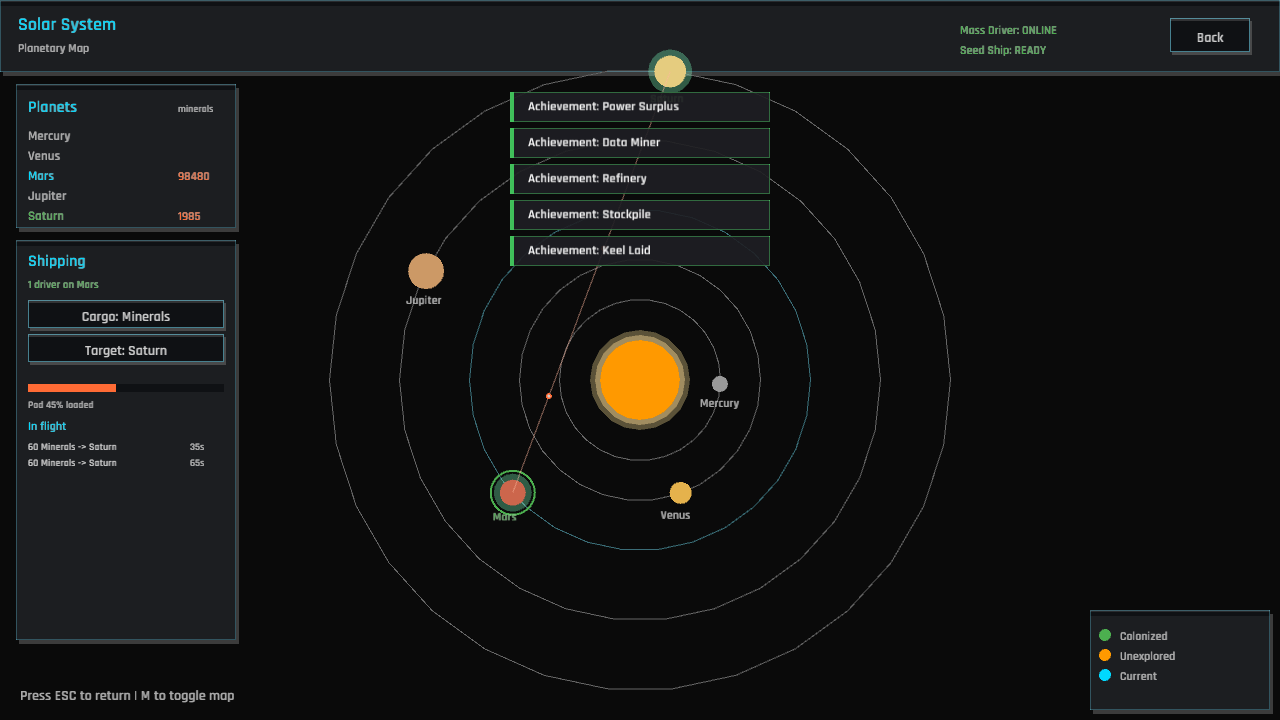
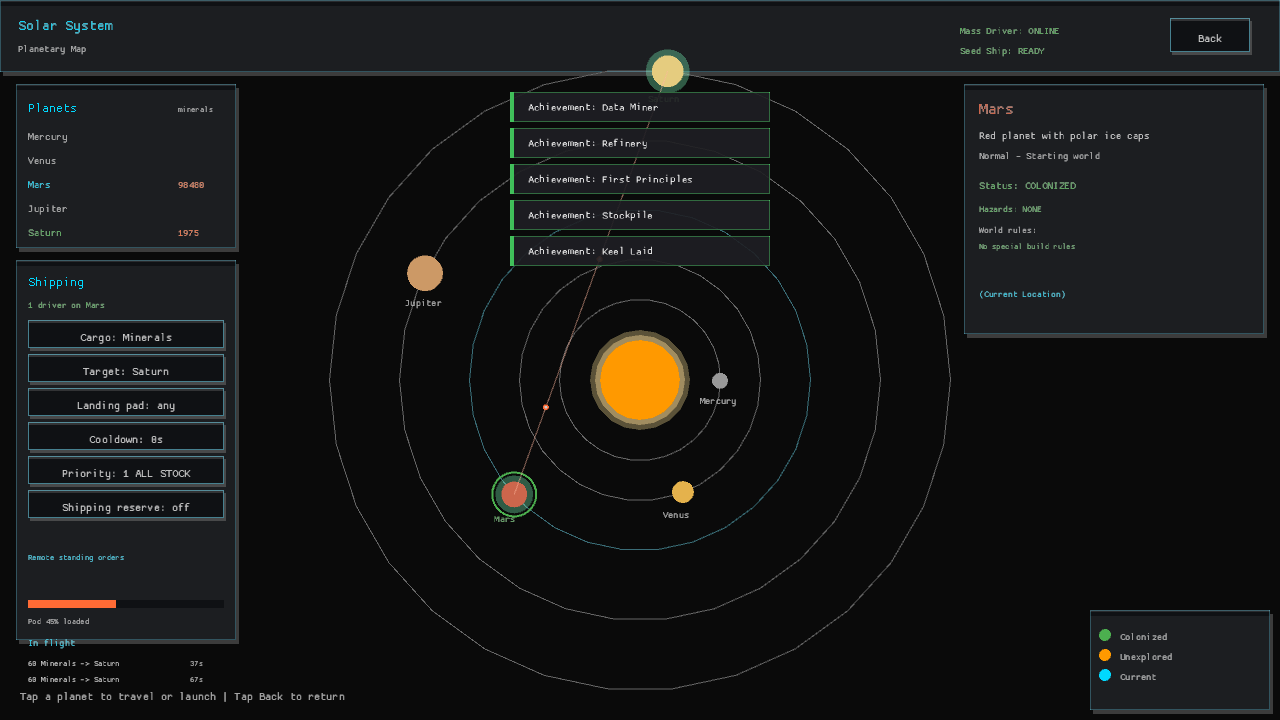
The solar map names the worlds before the swarm reaches them (world dossier and touch travel, GDD 4)
The interplanetary map exposed only names and colonization state, leaving hazards and launch constraints hidden until the player discovered them on the destination world. Add a persistent current-world dossier with declared hazards and friendly constraint names, and make each planet row a visible touch-safe selection target for travel or launch. Refresh the interplanetary verification capture to cover the expanded panel and adjusted list spacing.

diff --git a/src/screens/interplanetary_view.rs b/src/screens/interplanetary_view.rs
@@ -5,7 +5,7 @@ mod shipping_panel;
 use crate::state::{ExportOrder, Shipment};
 use crate::ui::{color_from_rgba, draw_button_sized, draw_panel, Colors, Dimensions};
 use macroquad::prelude::*;
-use macroquad_toolkit::ui::{draw_ui_text, Pointer};
+use macroquad_toolkit::ui::{draw_ui_text, note_neighbour, touch_area, Pointer};
 
 /// Actions from the interplanetary view
 #[derive(Debug, Clone, Copy, PartialEq)]
@@ -98,14 +98,24 @@ pub fn render_interplanetary_view(view: &MapView) -> InterplanetaryAction {
     draw_circle(center_x, center_y, 40.0, Colors::WARNING);
 
     let planets = &view.data.planets;
-    let mut hovered_planet: Option<usize> = None;
+    // Keep a dossier visible when the map opens. This gives touch players a
+    // useful first target and means the planet list can be used for travel
+    // without making the orbit nodes the only way to learn about a world.
+    let mut hovered_planet: Option<usize> = Some(current_planet);
     let mut action = InterplanetaryAction::None;
 
     let list_x = 16.0;
     let list_y = header_height + 12.0;
     let list_w = 220.0;
-    let list_h = 44.0 + planets.len() as f32 * 20.0;
-    draw_planet_list(view, list_x, list_y, list_w, list_h);
+    let list_h = 44.0 + planets.len() as f32 * 24.0;
+    let (list_focus, list_action) =
+        draw_planet_list(view, list_x, list_y, list_w, list_h, can_launch, pointer);
+    if list_focus.is_some() {
+        hovered_planet = list_focus;
+    }
+    if list_action != InterplanetaryAction::None {
+        action = list_action;
+    }
 
     // Under the map's own furniture: the shipping panel takes what the planet
     // list does not need.
@@ -228,15 +238,43 @@ pub fn render_interplanetary_view(view: &MapView) -> InterplanetaryAction {
 
 /// Every world and what is piling up on it. A world left behind keeps working,
 /// so the map says so rather than making the player fly there to find out.
-fn draw_planet_list(view: &MapView, x: f32, y: f32, w: f32, h: f32) {
+/// Rows are controls as well as labels: the list remains usable when an orbit
+/// is crowded, off-screen, or too small to comfortably tap.
+fn draw_planet_list(
+    view: &MapView,
+    x: f32,
+    y: f32,
+    w: f32,
+    h: f32,
+    can_launch: bool,
+    pointer: Pointer,
+) -> (Option<usize>, InterplanetaryAction) {
     draw_panel(x, y, w, h);
     draw_ui_text("Planets", x + 12.0, y + 28.0, 16.0, Colors::PRIMARY);
     draw_ui_text("minerals", x + w - 58.0, y + 28.0, 10.0, Colors::TEXT_DIM);
 
+    let mut focused = None;
+    let mut action = InterplanetaryAction::None;
+    let row_height = 24.0;
     let mut row_y = y + 56.0;
     for (index, planet) in view.data.planets.iter().enumerate() {
         let is_current = index == view.current_planet;
         let is_colonized = view.colonized.get(index).copied().unwrap_or(false);
+        let row = Rect::new(x + 8.0, row_y - 18.0, w - 16.0, row_height);
+        note_neighbour(row);
+        let hit_row = touch_area(row);
+        let is_focused = pointer.hovering_over(hit_row)
+            || pointer.pressing(hit_row)
+            || pointer.released_on(hit_row);
+        if is_focused {
+            focused = Some(index);
+            let fill = if pointer.pressing(hit_row) {
+                Colors::PRIMARY_SOFT
+            } else {
+                Color::new(0.0, 0.7, 0.9, 0.12)
+            };
+            draw_rectangle(row.x, row.y, row.w, row.h, fill);
+        }
         let label_color = if is_current {
             Colors::PRIMARY
         } else if is_colonized {
@@ -254,8 +292,16 @@ fn draw_planet_list(view: &MapView, x: f32, y: f32, w: f32, h: f32) {
                 Colors::ACCENT,
             );
         }
-        row_y += 20.0;
+        if pointer.released_on(hit_row) {
+            if is_colonized && !is_current {
+                action = InterplanetaryAction::SelectPlanet(index);
+            } else if !is_colonized && can_launch {
+                action = InterplanetaryAction::LaunchSeedShip(index);
+            }
+        }
+        row_y += row_height;
     }
+    (focused, action)
 }
 
 /// What the hovered world is, and what clicking it would do.
@@ -272,7 +318,7 @@ fn draw_planet_info(
     let is_current = index == view.current_planet;
 
     let panel_w = 300.0;
-    let panel_h = 200.0;
+    let panel_h = 250.0;
     let panel_x = screen_w - panel_w - 16.0;
     let panel_y = header_height + 12.0;
     draw_panel(panel_x, panel_y, panel_w, panel_h);
@@ -306,11 +352,41 @@ fn draw_planet_info(
     };
     draw_ui_text(status, panel_x + 15.0, panel_y + 105.0, 13.0, status_color);
 
+    draw_ui_text(
+        &format!("Hazards: {}", hazard_summary(planet)),
+        panel_x + 15.0,
+        panel_y + 128.0,
+        11.0,
+        hazard_color(planet),
+    );
+    draw_ui_text(
+        "World rules:",
+        panel_x + 15.0,
+        panel_y + 149.0,
+        11.0,
+        Colors::TEXT_DIM,
+    );
+    let rules = world_rule_lines(view, index);
+    let rules_color = if rules.len() == 1 && rules[0] == "No special build rules" {
+        Colors::SUCCESS
+    } else {
+        Colors::WARNING
+    };
+    for (line_index, line) in rules.iter().enumerate() {
+        draw_ui_text(
+            line,
+            panel_x + 15.0,
+            panel_y + 165.0 + line_index as f32 * 16.0,
+            10.0,
+            rules_color,
+        );
+    }
+
     if is_current {
         draw_ui_text(
             "(Current Location)",
             panel_x + 15.0,
-            panel_y + 125.0,
+            panel_y + 213.0,
             11.0,
             Colors::PRIMARY,
         );
@@ -318,7 +394,7 @@ fn draw_planet_info(
         draw_ui_text(
             "Tap to travel",
             panel_x + 15.0,
-            panel_y + 150.0,
+            panel_y + 213.0,
             12.0,
             Colors::PRIMARY,
         );
@@ -326,7 +402,7 @@ fn draw_planet_info(
         draw_ui_text(
             "Tap to launch the Seed Ship",
             panel_x + 15.0,
-            panel_y + 150.0,
+            panel_y + 213.0,
             12.0,
             Colors::SUCCESS,
         );
@@ -339,7 +415,7 @@ fn draw_planet_info(
         draw_ui_text(
             blocker,
             panel_x + 15.0,
-            panel_y + 150.0,
+            panel_y + 213.0,
             11.0,
             Colors::ERROR,
         );
@@ -355,6 +431,83 @@ fn draw_planet_info(
     } else {
         None
     }
+}
+
+fn hazard_summary(planet: &crate::data::PlanetDef) -> String {
+    let mut hazards = Vec::new();
+    if planet.hazards.acid_rain > 0.0
+        || planet
+            .hazard_fields
+            .iter()
+            .any(|field| field.hazard == "acid")
+    {
+        hazards.push("ACID RAIN");
+    }
+    if planet.hazards.freeze > 0.0
+        || planet
+            .hazard_fields
+            .iter()
+            .any(|field| field.hazard == "cold")
+    {
+        hazards.push("COLD");
+    }
+    if hazards.is_empty() {
+        "NONE".to_string()
+    } else {
+        hazards.join(" / ")
+    }
+}
+
+fn hazard_color(planet: &crate::data::PlanetDef) -> Color {
+    if planet.hazards.any() || !planet.hazard_fields.is_empty() {
+        Colors::WARNING
+    } else {
+        Colors::SUCCESS
+    }
+}
+
+fn world_rule_lines(view: &MapView, index: usize) -> Vec<String> {
+    let planet = &view.data.planets[index];
+    let constraints = &planet.constraints;
+    let mut lines = Vec::new();
+    for id in &constraints.required_buildings {
+        let name = view
+            .data
+            .buildings
+            .iter()
+            .find(|building| building.id == *id)
+            .map(|building| building.name.as_str())
+            .unwrap_or(id.as_str());
+        lines.push(format!("Needs {}", name));
+    }
+    for id in &constraints.required_research {
+        let name = view
+            .data
+            .research
+            .nodes
+            .iter()
+            .find(|node| node.id == *id)
+            .map(|node| node.name.as_str())
+            .unwrap_or(id.as_str());
+        lines.push(format!("Needs research: {}", name));
+    }
+    if constraints.minimum_power_generation > 0.0 {
+        lines.push(format!(
+            "Needs {:.0} power generation",
+            constraints.minimum_power_generation
+        ));
+    }
+    if constraints.minimum_power_balance > 0.0 {
+        lines.push(format!(
+            "Needs {:.0} power surplus",
+            constraints.minimum_power_balance
+        ));
+    }
+    if lines.is_empty() {
+        lines.push("No special build rules".to_string());
+    }
+    lines.truncate(3);
+    lines
 }
 
 fn draw_legend(screen_w: f32, screen_h: f32) {
